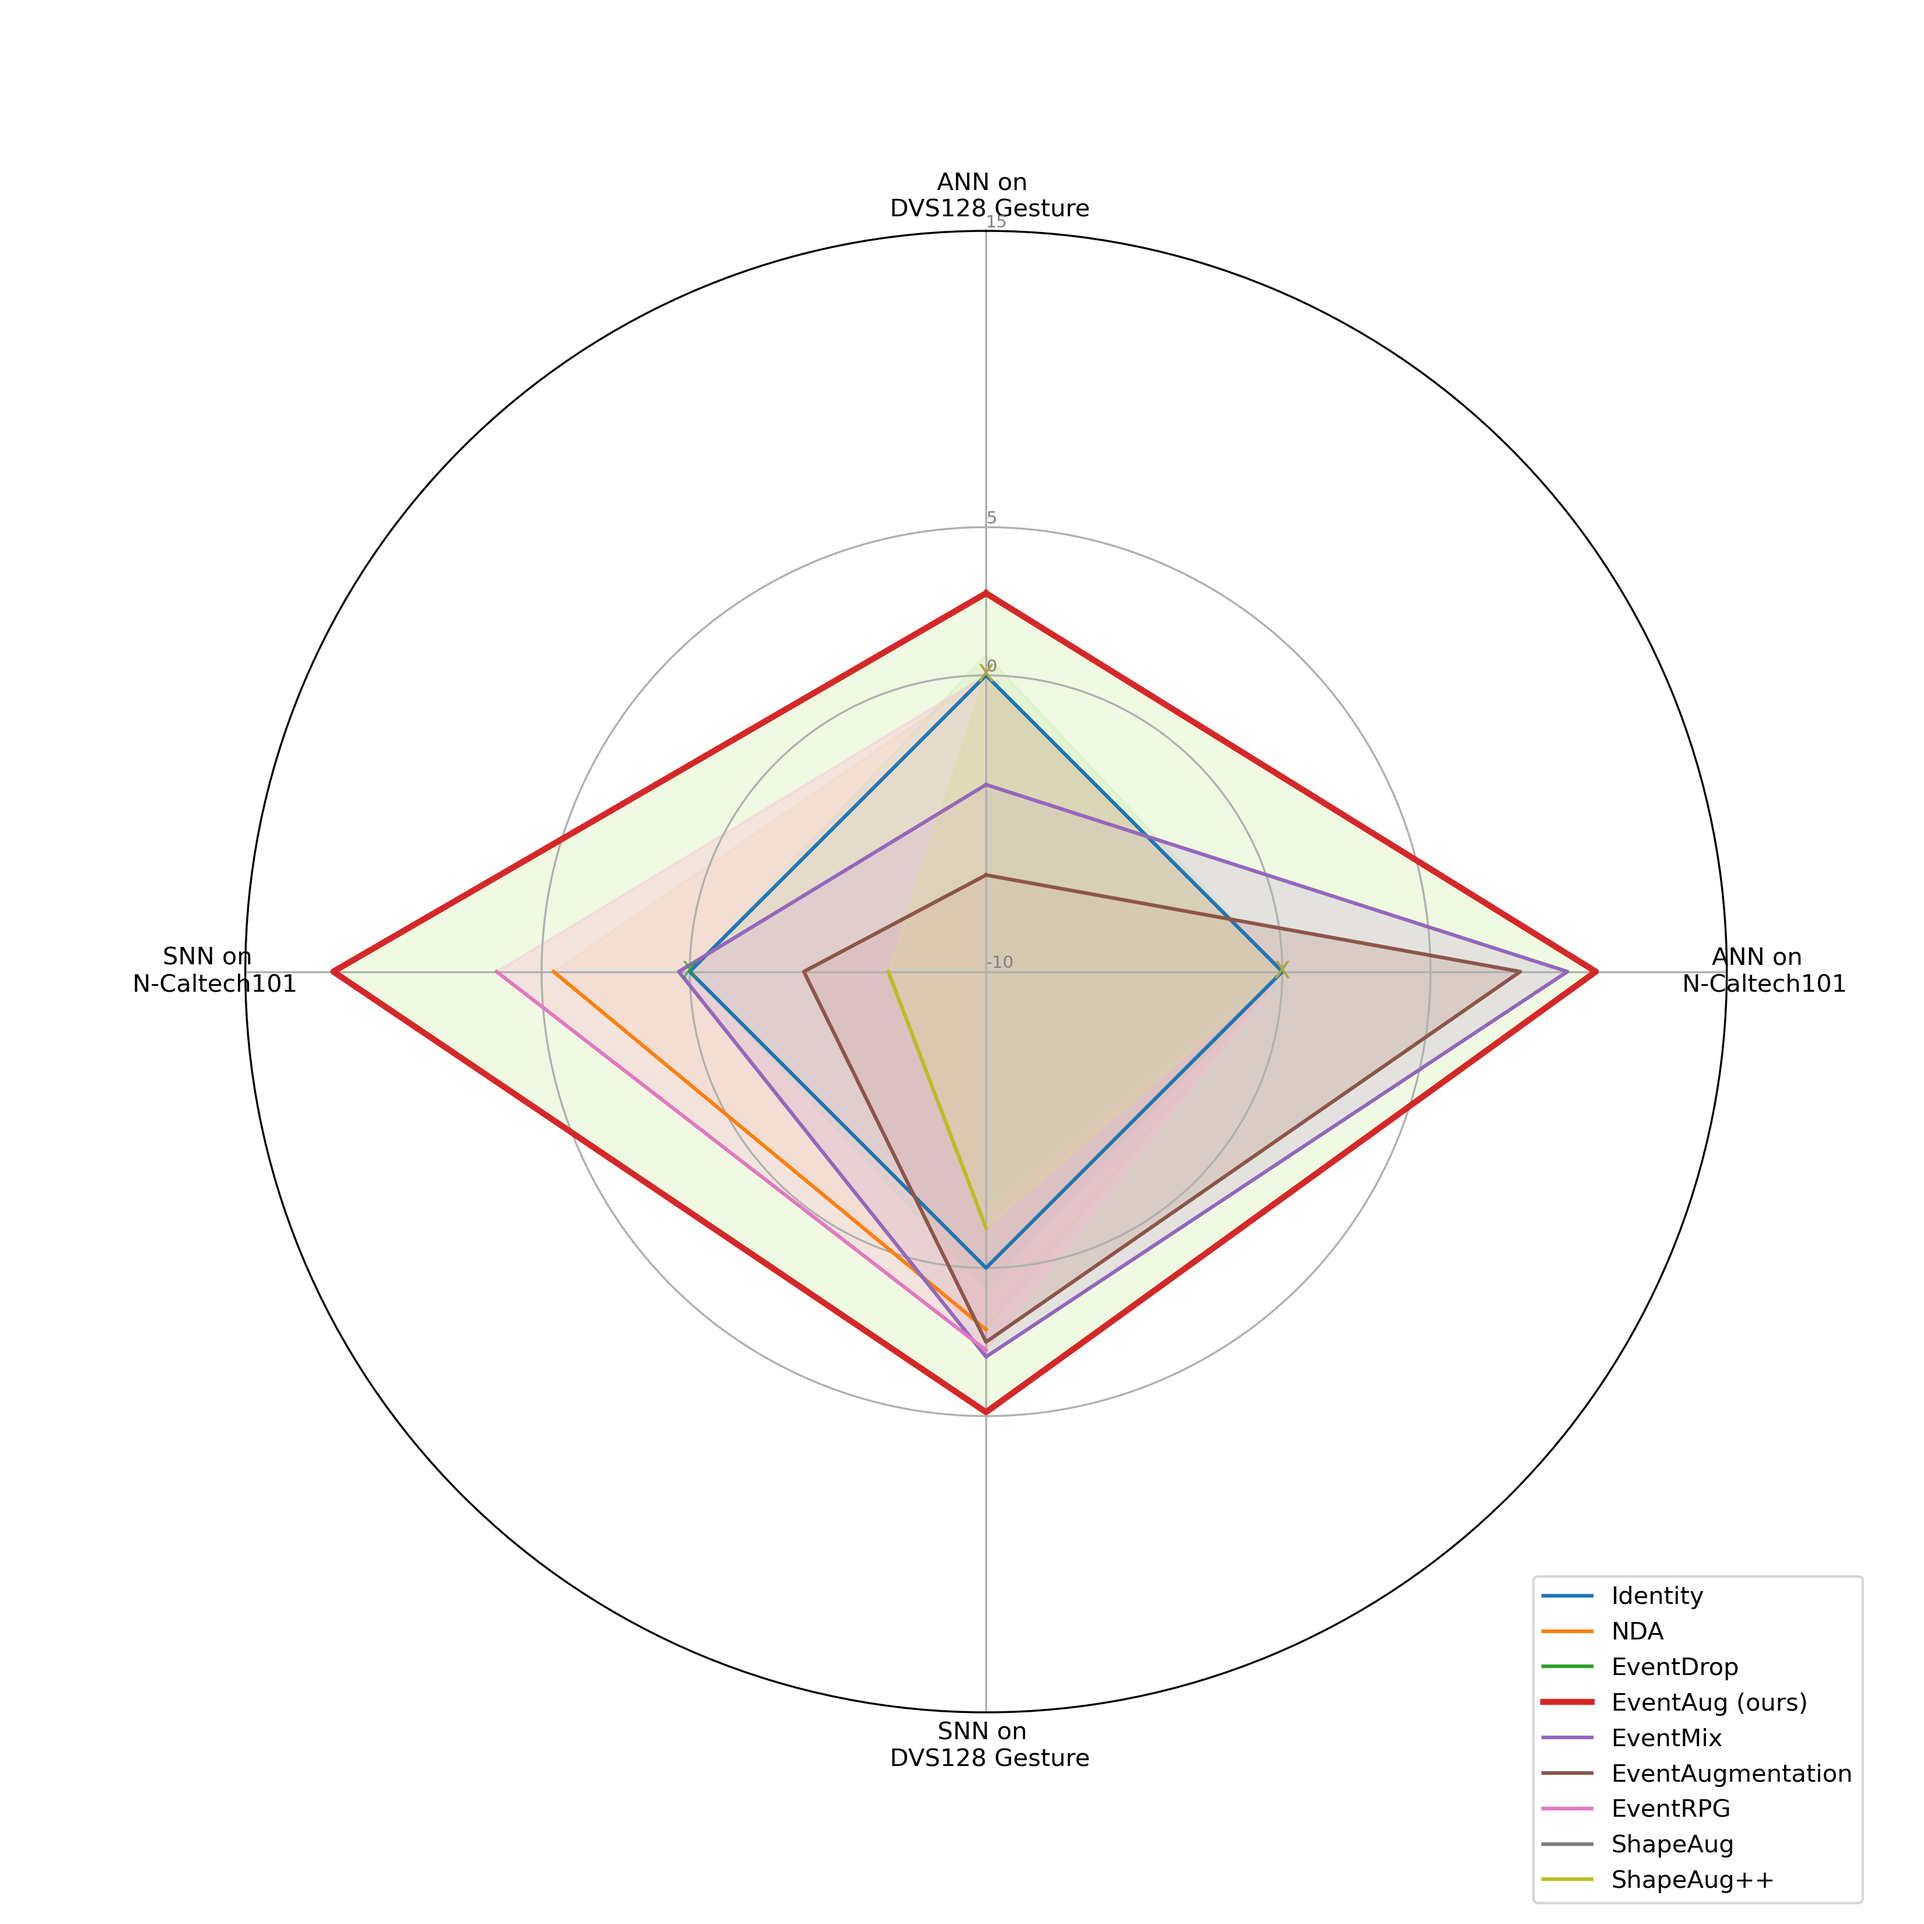
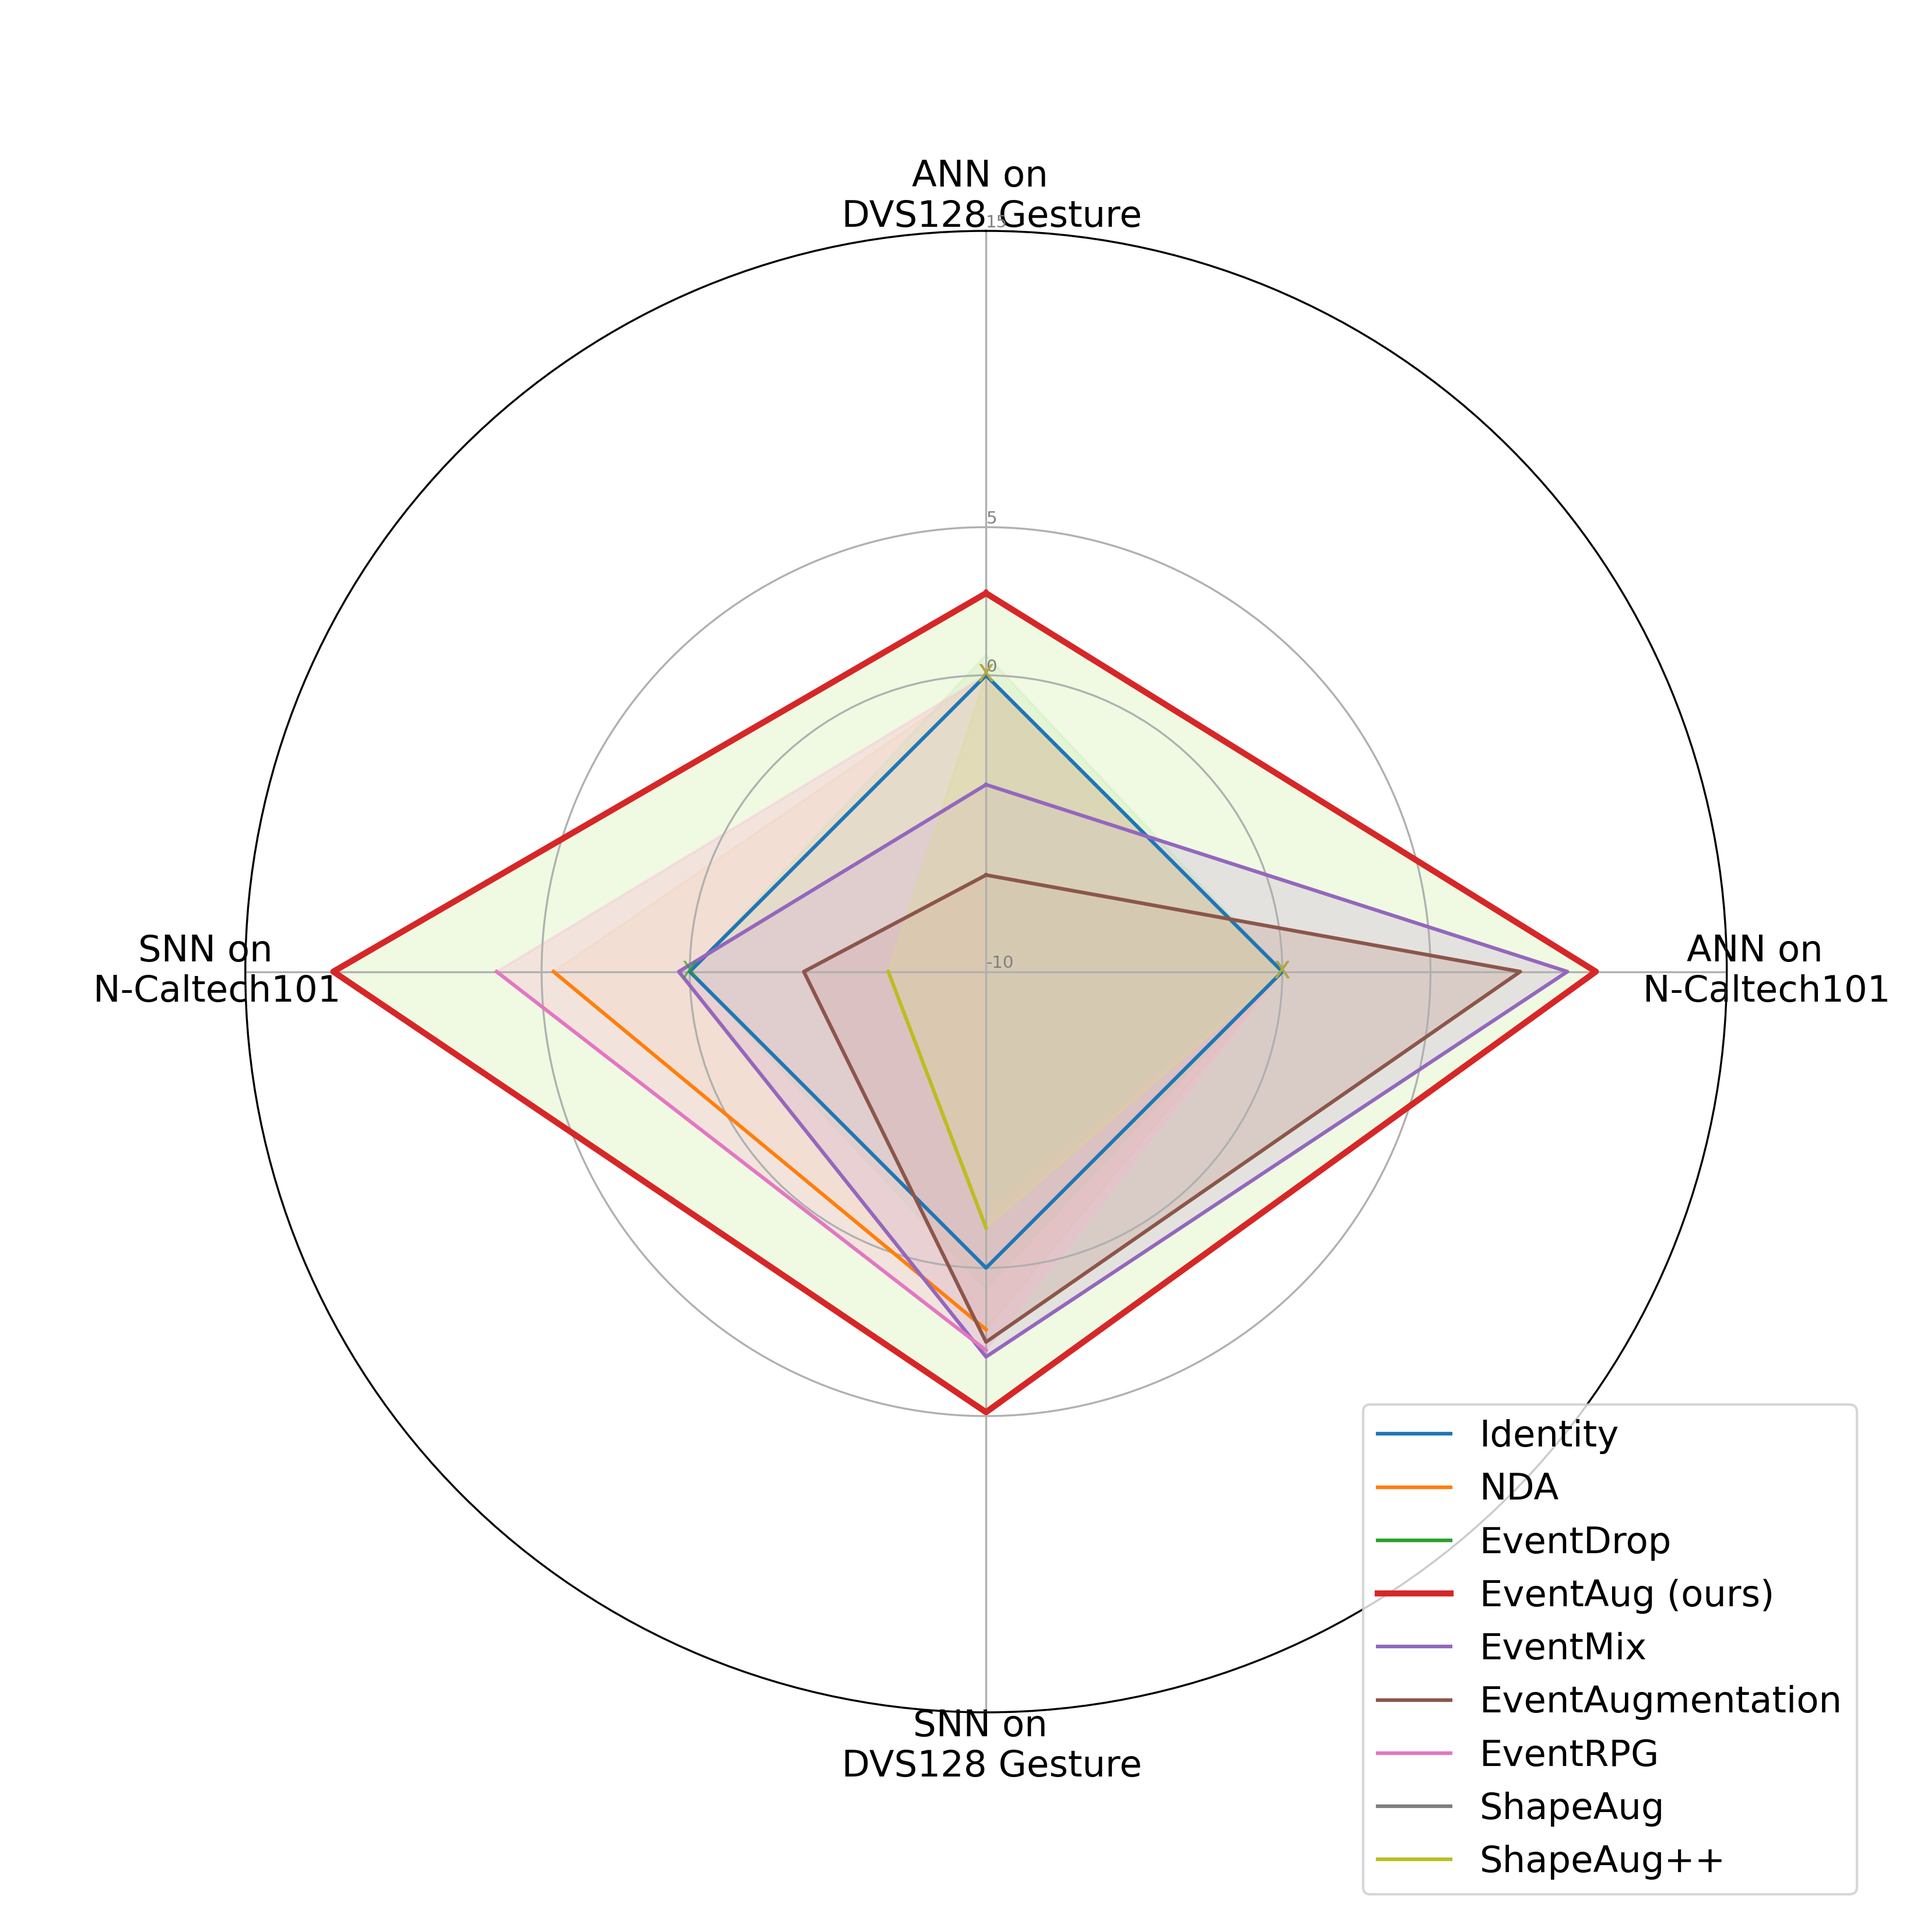
update

diff --git a/painting/lidar.py b/painting/lidar.py
@@ -38,7 +38,7 @@ ax.set_theta_offset(pi / 2)
 ax.set_theta_direction(-1)
 
 # Draw one axis per variable and add labels
-plt.xticks(angles[:-1], categories)
+plt.xticks(angles[:-1], categories, fontsize=15)
 
 # Draw y-labels
 ax.set_rlabel_position(0)
@@ -82,7 +82,7 @@ for angle, category in zip(angles[:-1], categories):
             ax.text(angle, 0, 'X', ha='center', va='center', fontsize=10, color=colors[i], alpha=0.7)
 
 # Add legend
-plt.legend(loc='upper right', bbox_to_anchor=(1.1, 0.1))
+plt.legend(loc='upper right', bbox_to_anchor=(1.1, 0.22), fontsize=15)
 
 # Save the plot
 plt.savefig('./fig/radar_chart_academic_colors.png', dpi=300)
